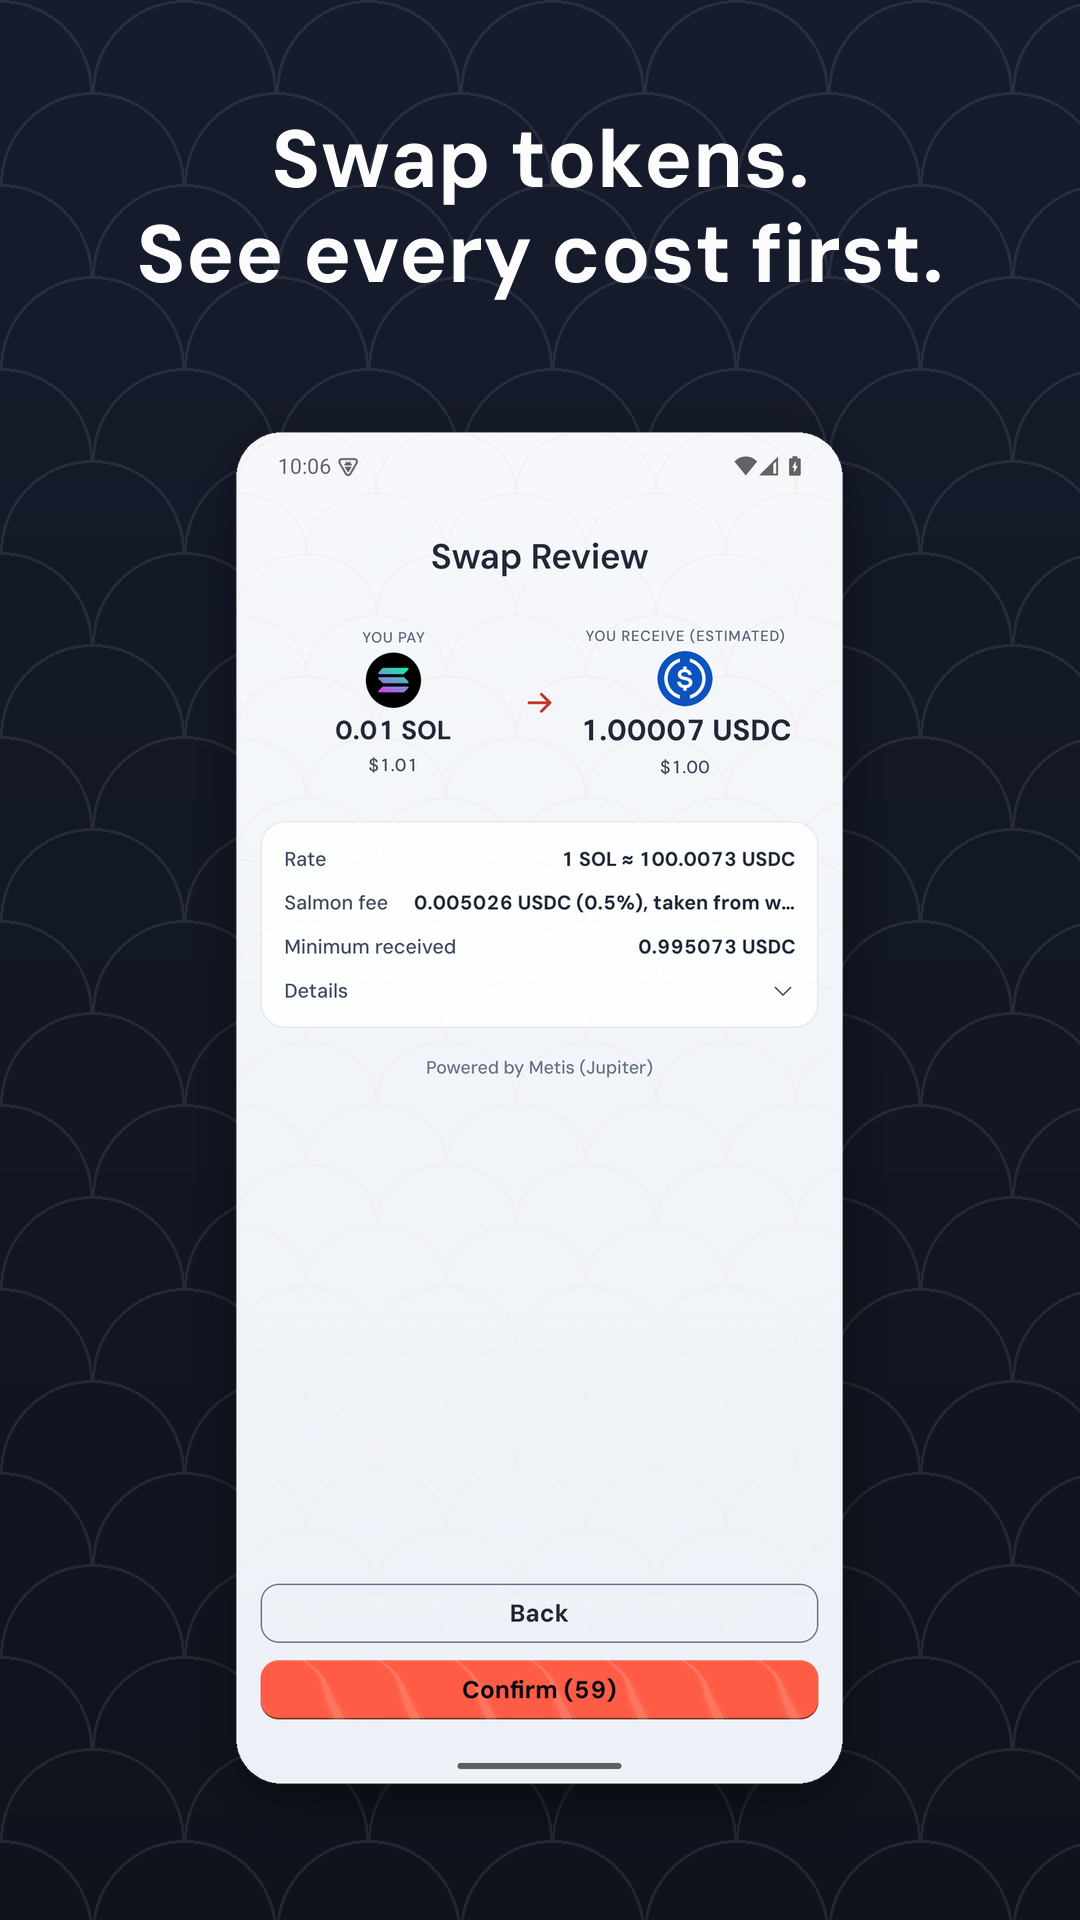
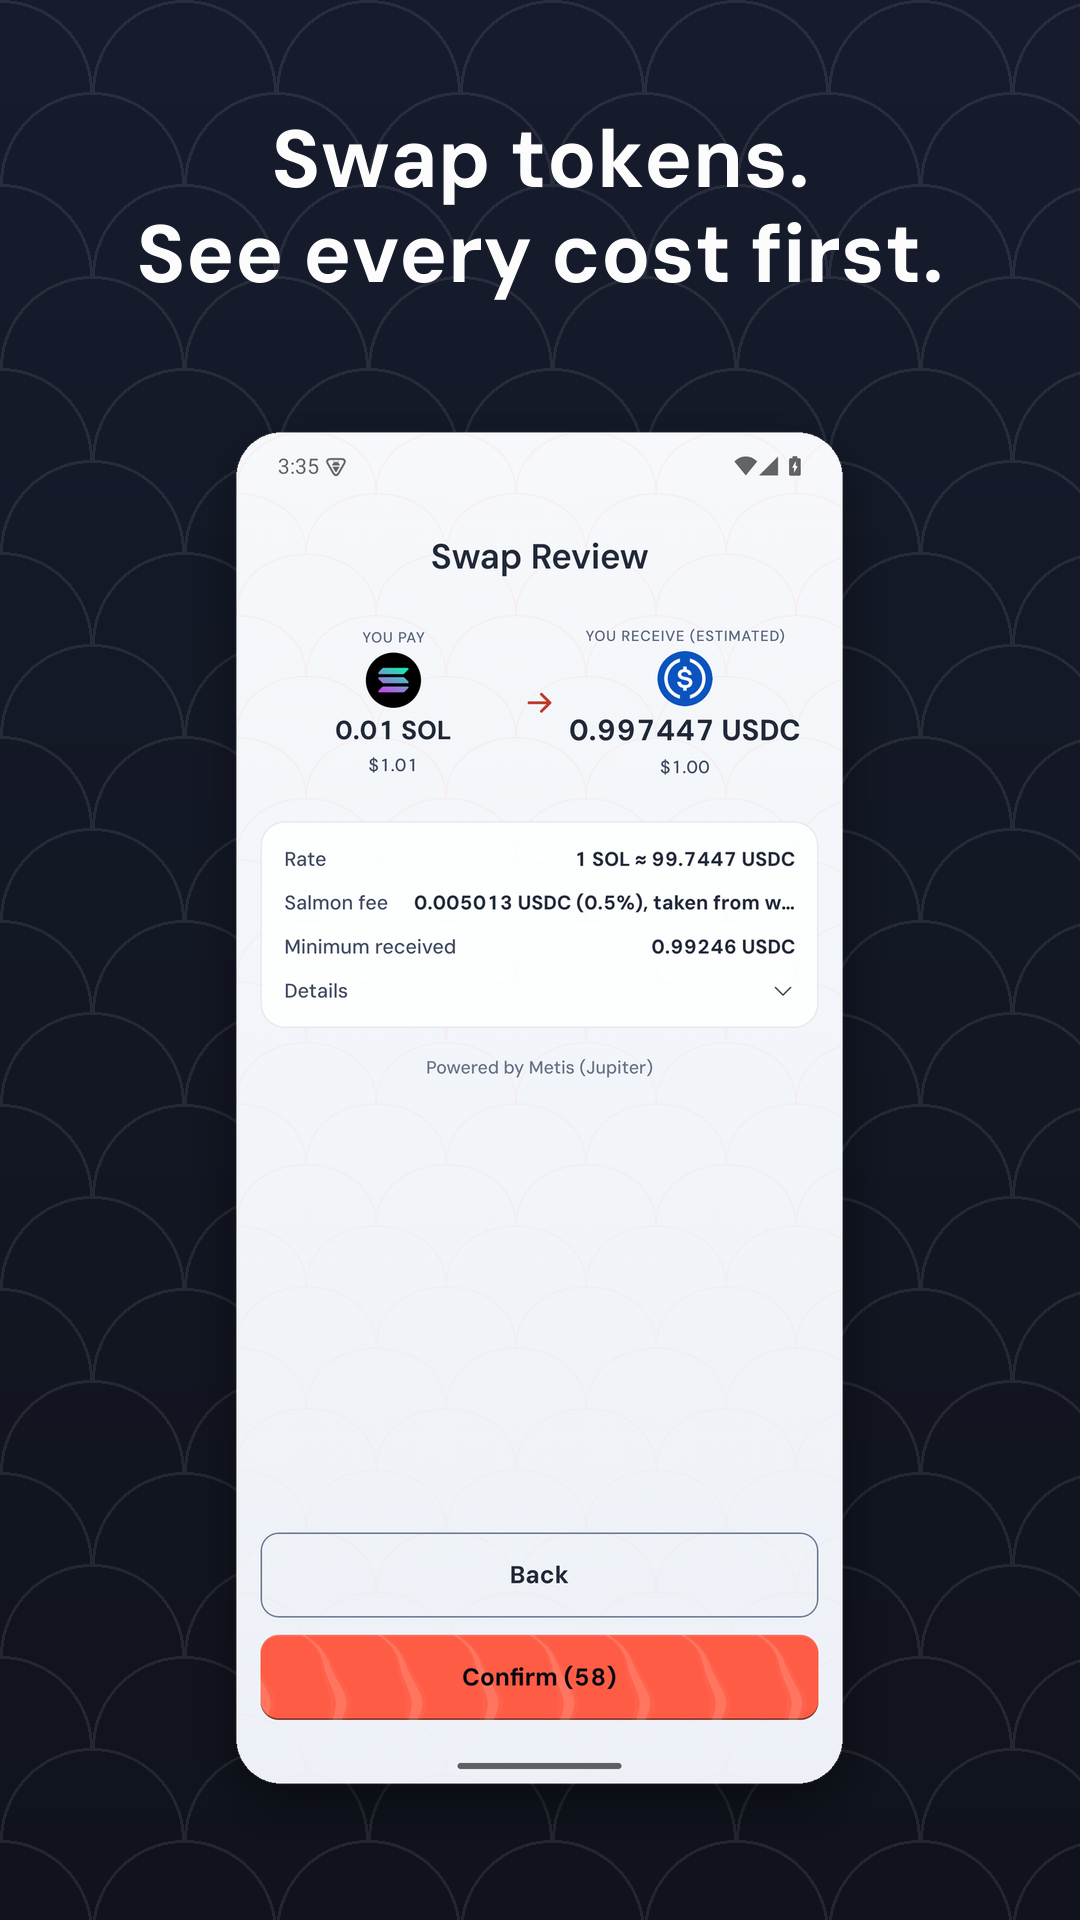
store-assets: Swap frames with the standard review buttons, capture check at proxy start
- Swap review recaptured on iOS and Android after the review buttons moved to the app's standard size; one Android capture serves Play and the dApp Store.
- App Store frames recomposed from the committed iOS captures, so compose.py reproduces what is committed.
- The staging proxy prints a check at start: staged total, tokens without a logo, the region mode, and whether a live Swap quote builds and simulates.
- README: Seeker region, the dApp Store deck, and retaking the Swap frame alone.

diff --git a/store-assets/README.md b/store-assets/README.md
@@ -22,13 +22,13 @@ Captions live in `compose.py`'s decks. They count as listing metadata: no "excha
 
 Every screenshot shows one fictional account (Apple 2.3.9): the same balances, history and NFTs on every platform. `staging/proxy.mjs` stands in front of the production API, answers the staged wallets' balance, history, stakes, NFTs and SKR position from `staging/staged.mjs`, and passes everything else through, so prices, charts and the Swap quote are real. Pass-through answers are recorded in `staging/cache/` and replayed, so a deck shot today and one shot next week show the same figures; delete the cache to record fresh prices. The NFTs are Salmon's own art (`staging/make-nft-art.py`), served from this repository over https because the app loads NFT media over https only.
 
-1. `store-assets/staging/run.sh` starts the proxy on port 3900 (`STAGING_REGION=uk` switches Swap off for the U.K. catalogue).
+1. `store-assets/staging/run.sh` starts the proxy on port 3900 (`STAGING_REGION=uk` switches Swap off for the U.K. catalogue, `STAGING_REGION=seeker` adds the SKR stake for the dApp Store deck). At start it prints a check: the staged total, any token without a logo, the mode, and whether a live Swap quote simulates.
 2. iOS: build a Release app pointed at it, `EXPO_PUBLIC_SALMON_ENV=production EXPO_PUBLIC_API_URL=http://localhost:3900 npx expo run:ios --configuration Release --device <udid> --no-bundler`, then from `apps/mobile/.maestro`: `SALMON_API_URL=http://localhost:3900 ./run.sh --release --device <udid> --test-output-dir=<dir> -e OUT=ios flows/store/capture.yaml` and `flows/store/capture-uk.yaml` (with the U.K. proxy). Maestro 2.11 writes screenshots only inside `--test-output-dir`; copy them into `source/ios-staged/`.
-3. Android: a debug build (a release build refuses plain http to the proxy) with Metro started with the same `EXPO_PUBLIC_*` values; the same flows with `--device emulator-5554`. Play's emulator must not run Seed Vault, or the catalogue offers SKR.
+3. Android: a debug build (a release build refuses plain http to the proxy) with Metro started with the same `EXPO_PUBLIC_*` values; the same flows with `--device emulator-5554`. Play's emulator must not run Seed Vault, or the catalogue offers SKR. The dApp Store deck runs `flows/store/capture-seeker.yaml` and `capture-seeker-mwa.yaml` on a Seeker emulator set up as in the Maestro README's "Seeker emulator" section, with the proxy in `seeker` mode.
 4. Extension: `VITE_API_URL=http://127.0.0.1:3900 pnpm build` in `apps/extension`, then `node .playwright/scripts/store-shots.mjs`.
 5. `python3 store-assets/compose.py` frames every deck; it clears each output folder first, so no stale frame survives.
 
-The Swap frame quotes 0.01 SOL: the backend quotes only amounts the demo wallet really holds, so the quote is live while the balance on screen is staged. Nothing in the flows signs: Swap stops on its review, the dApp request is closed unanswered.
+The Swap frame quotes 0.01 SOL: the backend quotes only amounts the demo wallet really holds, so the quote is live while the balance on screen is staged. When the proxy's check says Swap fails, the router is having a bad moment: shoot the rest and retake the Swap frame alone with `flows/store/capture-swap.yaml`. Nothing in the flows signs: Swap stops on its review, the dApp request is closed unanswered.
 
 ## Tablets: deliberately deferred (2026-08-07)
 
